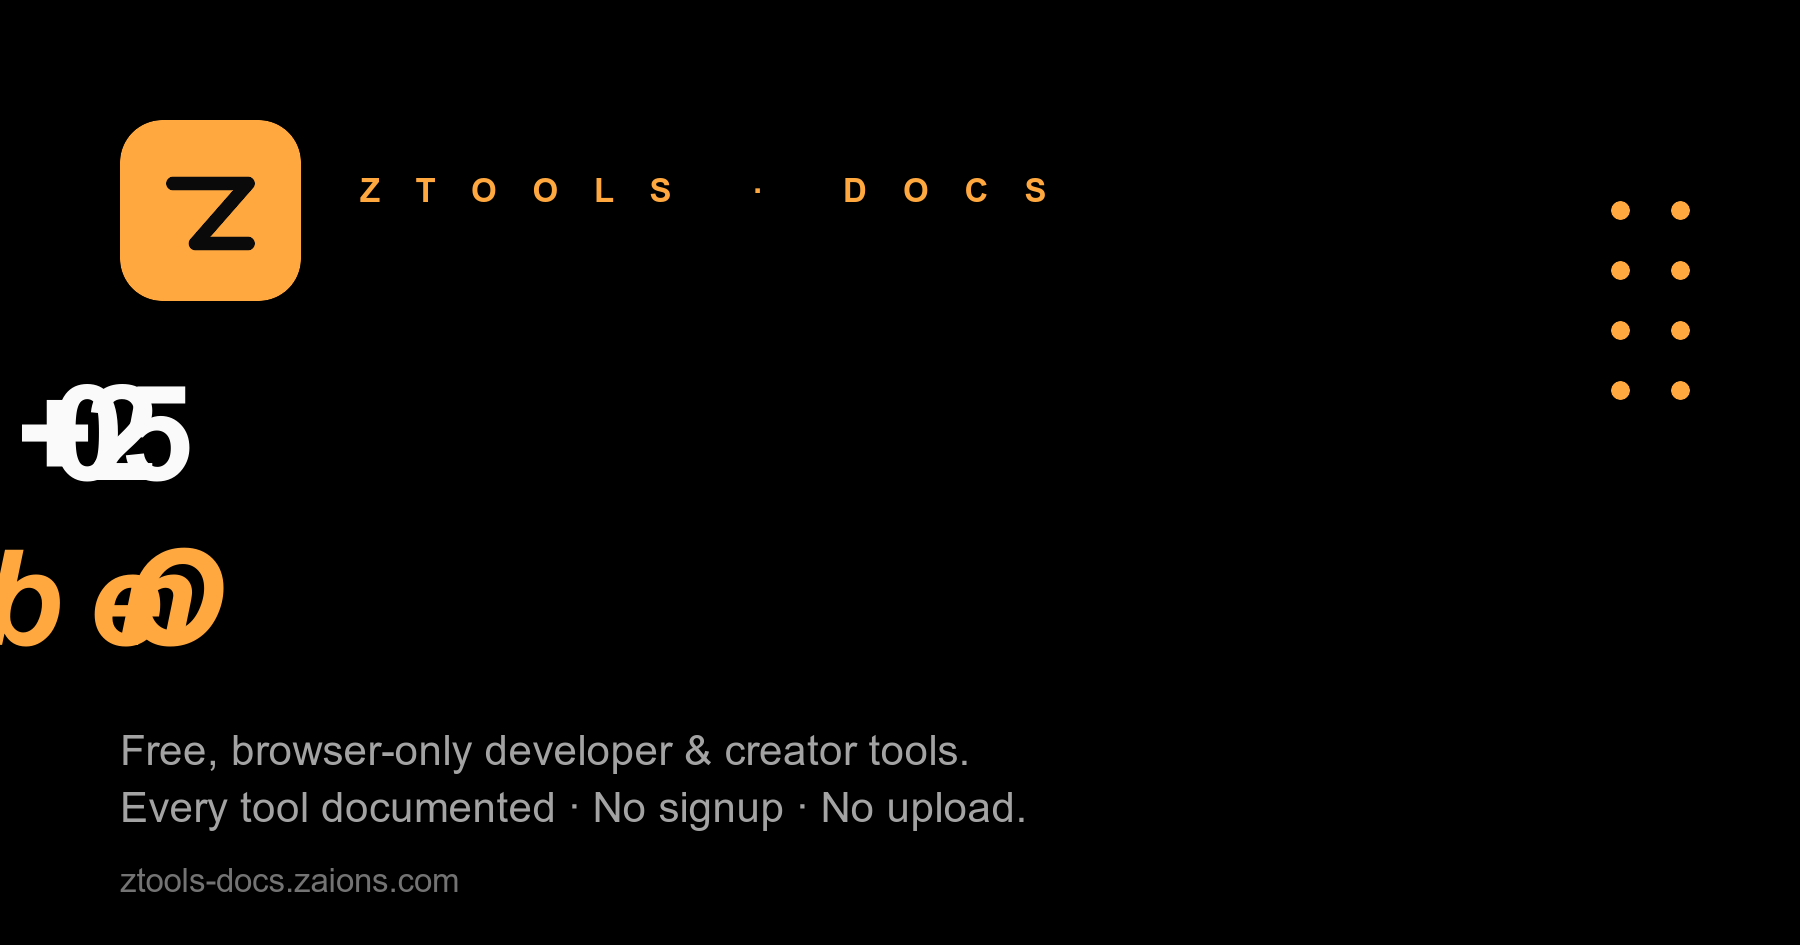
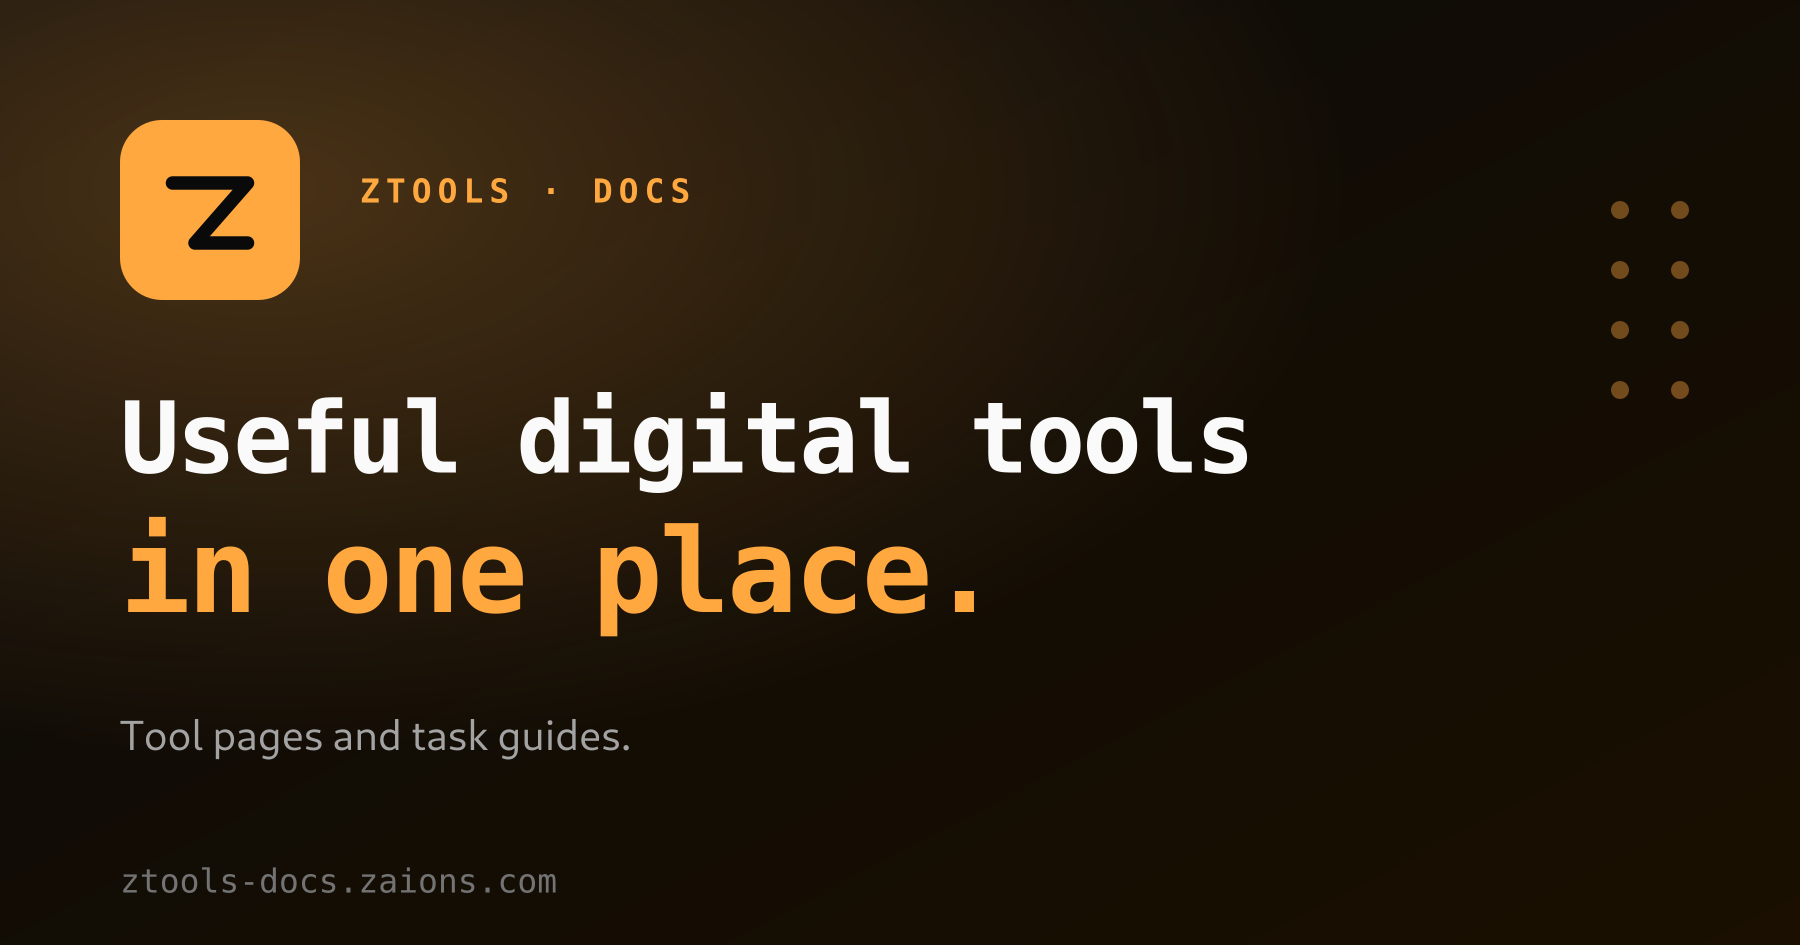
Correct ZTools docs introduction and processing claims

diff --git a/src/pages/index.tsx b/src/pages/index.tsx
@@ -8,30 +8,30 @@ const APP_URL = 'https://ztools.zaions.com';
 const GH_REPO = 'https://github.com/aoneahsan/ztools-docs';
 
 const FEATURED_TOOLS = [
-  {path: 'data/json-formatter', name: 'JSON Formatter', tag: 'Most-used'},
-  {path: 'generator/password-generator', name: 'Password Generator', tag: 'Crypto-RNG'},
-  {path: 'encoding/qr-generator', name: 'QR Generator', tag: 'Browser-only'},
-  {path: 'image/image-compressor', name: 'Image Compressor', tag: 'Lossless'},
-  {path: 'utility/regex-tester', name: 'Regex Tester', tag: 'Live preview'},
-  {path: 'pdf/merge-pdf', name: 'PDF Merger', tag: 'No upload'},
+  {path: 'data/json-formatter', name: 'JSON Formatter', tag: 'Format JSON'},
+  {path: 'generator/password-generator', name: 'Password Generator', tag: 'Generate passwords'},
+  {path: 'encoding/qr-generator', name: 'QR Generator', tag: 'Make QR codes'},
+  {path: 'image/image-compressor', name: 'Image Compressor', tag: 'Compress images'},
+  {path: 'utility/regex-tester', name: 'Regex Tester', tag: 'Test patterns'},
+  {path: 'pdf/merge-pdf', name: 'PDF Merger', tag: 'Merge PDFs'},
 ];
 
 const PILLARS = [
   {
-    label: '580+ tools',
-    text: 'Every developer & creator utility, from JSON formatter to QR generator to PDF merger.',
+    label: 'Tools in one place',
+    text: 'Find a JSON formatter, QR generator, PDF tool, and more without visiting a different site for each job.',
   },
   {
-    label: 'Browser-only',
-    text: 'Tools run on your device. Files never upload. Zero analytics on your inputs.',
+    label: 'Clear processing boundaries',
+    text: 'Many tools work in your browser. AI and some other features send input to a server or provider.',
   },
   {
     label: 'Open documentation',
-    text: 'Every tool documented with use cases, examples, and FAQs. Source on GitHub.',
+    text: 'Read use cases, examples, and FAQs for the tools in this catalog. The docs source is on GitHub.',
   },
   {
-    label: 'No friction',
-    text: 'The free tools need no signup and no email gate. Open the URL, paste, ship.',
+    label: 'A place to start',
+    text: 'Many tools are ready without sign-in. Growth Suite needs an account and has plan limits.',
   },
 ];
 
@@ -46,25 +46,23 @@ export default function Home(): React.ReactElement {
         {/* HERO */}
         <section className={styles.hero}>
           <div className={styles.heroInner}>
-            <p className={styles.eyebrow}>ZTools docs · v0.1</p>
+            <p className={styles.eyebrow}>ZTools docs</p>
             <h1 className={styles.title}>
-              580+ tools.<br />
-              <span className={styles.titleAccent}>One browser tab.</span>
+              Useful tools.<br />
+              <span className={styles.titleAccent}>One place.</span>
             </h1>
             <p className={styles.subtitle}>
-              ZTools is a free, browser-only collection of developer & creator
-              tools. This site documents every one of them — use cases,
-              examples, FAQs, and the honest framing the marketing pages skip.
+              ZTools brings everyday digital tools together, from JSON formatting to QR codes and PDF work. Many run in your browser; AI and some other tools use a server or provider. Find use cases, examples, and FAQs to help you choose your next tool.
             </p>
             <div className={styles.actions}>
-              <Link to="/docs/intro" className={styles.btnPrimary}>
+              <Link to="/docs/tools" className={styles.btnPrimary}>
+                Browse tools
+              </Link>
+              <Link to="/docs/intro" className={styles.btnGhost}>
                 Get started
               </Link>
-              <Link to="/docs/tools" className={styles.btnGhost}>
-                Browse all tools →
-              </Link>
               <a href={APP_URL} className={styles.btnGhost} target="_blank" rel="noopener">
-                Open the app ↗
+                Open ZTools
               </a>
             </div>
           </div>
@@ -90,11 +88,9 @@ export default function Home(): React.ReactElement {
         {/* FEATURED TOOLS */}
         <section className={styles.featured}>
           <header className={styles.sectionHeader}>
-            <p className={styles.sectionEyebrow}>Featured</p>
-            <h2 className={styles.sectionTitle}>Start with the most-used tools</h2>
+            <h2 className={styles.sectionTitle}>Start with a tool</h2>
             <p className={styles.sectionLead}>
-              Each links to its full documentation page. Click any to read the
-              use cases, examples, and FAQs.
+              Choose a tool to read its use cases, examples, and FAQs.
             </p>
           </header>
           <div className={styles.toolGrid}>
@@ -115,33 +111,21 @@ export default function Home(): React.ReactElement {
         {/* PHILOSOPHY */}
         <section className={styles.philosophy}>
           <div>
-            <p className={styles.sectionEyebrow}>Philosophy</p>
+            <p className={styles.sectionEyebrow}>How ZTools works</p>
             <h2 className={styles.sectionTitle}>
-              Free as in <em>actually</em> free
+              The tool for the next job is nearby
             </h2>
           </div>
           <div className={styles.philosophyText}>
             <p>
-              Most "free online tools" charge in attention, data, or both. They
-              upload your files to inspect them, run analytics on your inputs,
-              gate features behind email signup, and bury the actual product
-              under three layers of ads.
+              Small digital jobs can send you through several sites. ZTools keeps the tools together. Find a JSON formatter, make a QR code, or move on to the next task in one catalog.
             </p>
             <p>
-              ZTools is the opposite: <strong>browser-only processing</strong>,
-              no signup gate, no analytics on your tool inputs (only on
-              navigation, opt-out documented). The full documentation site
-              you're reading is open-source on{' '}
-              <a href={GH_REPO} target="_blank" rel="noopener">
-                GitHub
-              </a>{' '}
-              — fork it, audit it, fix typos.
+              Processing depends on the tool. Many work in your browser; AI and some other features may send the input you provide to ZTools or another provider. Some tools also need an account or connection.
             </p>
             <p>
-              When a tool has limits — JPG can't store transparency, GIF
-              transparency is 1-bit, regex performance degrades on certain
-              patterns — the docs say so. Honest framing earns more trust than
-              marketing copy.
+              Each listed tool has use cases, examples, and FAQs. The docs source is on{' '}
+              <a href={GH_REPO} target="_blank" rel="noopener">GitHub</a>, where you can review the pages and suggest a correction.
             </p>
           </div>
         </section>
@@ -151,10 +135,11 @@ export default function Home(): React.ReactElement {
           <p className={styles.sectionEyebrow}>Built by</p>
           <h2 className={styles.authorName}>Ahsan Mahmood</h2>
           <p className={styles.authorBio}>
-            Solo developer behind ZTools and several other side projects. Based
-            in Pakistan; ships code every day. Reach me at{' '}
+            Ahsan Mahmood built ZTools. He's a developer based in Pakistan. For questions, email{' '}
             <a href="mailto:aoneahsan@gmail.com">aoneahsan@gmail.com</a>{' '}
-            or{' '}
+            or use the contact links below.
+          </p>
+          <p className={styles.authorBio}>
             <a href="https://wa.me/923046619706" target="_blank" rel="noopener">WhatsApp +92 304 6619706</a>.
           </p>
           <p className={styles.authorBio}>

diff --git a/docusaurus.config.ts b/docusaurus.config.ts
@@ -33,7 +33,7 @@ const clarityScript = (id: string) => `
 
 const config: Config = {
   title: 'ZTools Documentation',
-  tagline: '580+ free developer & creator tools — every page documented.',
+  tagline: 'Useful digital tools in one place, with tool pages and task guides.',
   favicon: 'img/favicon.ico',
 
   url: SITE_URL,
@@ -52,7 +52,6 @@ const config: Config = {
   },
 
   headTags: [
-    {tagName: 'link', attributes: {rel: 'canonical', href: SITE_URL}},
     {tagName: 'meta', attributes: {name: 'author', content: 'Ahsan Mahmood'}},
 
     // ----- Favicons + iOS / Android home-screen icons ---------------------
@@ -82,14 +81,14 @@ const config: Config = {
     {tagName: 'meta', attributes: {property: 'og:image:type', content: 'image/png'}},
     {tagName: 'meta', attributes: {property: 'og:image:width', content: '1800'}},
     {tagName: 'meta', attributes: {property: 'og:image:height', content: '945'}},
-    {tagName: 'meta', attributes: {property: 'og:image:alt', content: 'ZTools — 580+ free developer & creator tools, every one documented'}},
+    {tagName: 'meta', attributes: {property: 'og:image:alt', content: 'ZTools Docs: useful digital tools in one place.'}},
 
     // ----- Twitter / X card ----------------------------------------------
     {tagName: 'meta', attributes: {name: 'twitter:card', content: 'summary_large_image'}},
     {tagName: 'meta', attributes: {name: 'twitter:site', content: '@aoneahsan'}},
     {tagName: 'meta', attributes: {name: 'twitter:creator', content: '@aoneahsan'}},
     {tagName: 'meta', attributes: {name: 'twitter:image', content: `${SITE_URL}/img/social-card.png`}},
-    {tagName: 'meta', attributes: {name: 'twitter:image:alt', content: 'ZTools — 580+ free developer & creator tools, every one documented'}},
+    {tagName: 'meta', attributes: {name: 'twitter:image:alt', content: 'ZTools Docs: useful digital tools in one place.'}},
 
     // Clarity — emitted only when CLARITY_PROJECT_ID env var is set
     ...(CLARITY_PROJECT_ID
@@ -203,13 +202,13 @@ const config: Config = {
     announcementBar: {
       id: 'launch-2026-05',
       content:
-        '🎉 ZTools docs — 580+ tools, each with its own documentation page. <a href="/docs/intro">Get started →</a>',
+        'Find the tool for your next task. <a href="/docs/tools">Browse tools →</a>',
       backgroundColor: '#ffa840',
       textColor: '#0a0a0a',
       isCloseable: true,
     },
     metadata: [
-      {name: 'keywords', content: 'developer tools, online tools, free tools, browser tools, ztools, json formatter, password generator, qr generator, image compressor, regex tester, base64, color picker'},
+      {name: 'keywords', content: 'ZTools, online tools, browser tools, developer tools, creator tools, JSON formatter, password generator, QR code generator, image compressor'},
       {name: 'twitter:card', content: 'summary_large_image'},
     ],
     colorMode: {defaultMode: 'dark', respectPrefersColorScheme: true},
@@ -270,7 +269,7 @@ const config: Config = {
           ],
         },
       ],
-      copyright: `© ${new Date().getFullYear()} ZTools by Ahsan Mahmood / Zaions. Browser-only. Privacy-first.`,
+      copyright: `© ${new Date().getFullYear()} ZTools by Ahsan Mahmood.`,
     },
     prism: {
       theme: prismThemes.oneLight,

diff --git a/src/components/ToolCTA/index.tsx b/src/components/ToolCTA/index.tsx
@@ -11,9 +11,9 @@ interface ToolCTAProps {
 }
 
 const LEAD: Record<ToolKind, string> = {
-  browser: 'in your browser. No signup, no upload.',
-  paid: 'in the ZTools Growth Suite. Sign-in required.',
-  server: 'on ZTools. Server processing needs a Google sign-in.',
+  browser: 'in ZTools.',
+  paid: 'in Growth Suite. Sign-in required.',
+  server: 'in ZTools. This tool may process input on a server.',
 };
 
 export default function ToolCTA({href, toolName, kind = 'browser'}: ToolCTAProps): React.ReactElement {
@@ -22,7 +22,7 @@ export default function ToolCTA({href, toolName, kind = 'browser'}: ToolCTAProps
       <div className={styles.body}>
         <p className={styles.kicker}>Try it now</p>
         <p className={styles.lead}>
-          Run <strong>{toolName}</strong> {LEAD[kind]}
+          Open <strong>{toolName}</strong> {LEAD[kind]}
         </p>
       </div>
       <a className={styles.button} href={href} target="_blank" rel="noopener">

diff --git a/docs/intro.md b/docs/intro.md
@@ -1,7 +1,7 @@
 ---
 id: intro
 title: Welcome to ZTools Documentation
-description: ZTools is a free collection of 580+ developer & creator tools. Every tool documented with use cases, examples, and FAQs.
+description: Find a ZTools tool, learn how it works, and check whether the task uses your browser, a server, an account, or a plan.
 sidebar_label: Introduction
 sidebar_position: 1
 slug: /intro
@@ -9,38 +9,30 @@ slug: /intro
 
 # Welcome to ZTools Documentation
 
-**ZTools** is a free collection of **580+ developer & creator tools** — JSON formatters, password generators, image compressors, regex testers, QR generators, PDF tools, and more. The vast majority run entirely in your browser: no signup, no upload, no data leaves your device. A few heavy tools (background removal, OCR, some audio, video and document conversions) can process a file on the ZTools server, where it is uploaded temporarily and deleted right after processing. A paid Growth Suite adds AI-assisted SEO tools that need a sign-in.
+A different site for every small job makes the next step hard to find. ZTools brings useful digital tools into one place: JSON formatters, password generators, QR code generators, image compressors, and more. One task. Then another.
 
-This site documents how each tool works — with real use cases, worked examples, FAQs, and tips you won't find on the app pages alone.
+<a id="where-can-i-find-a-tool-or-guide"></a>
+## 🧰 Where can I find a tool or guide?&nbsp;[#](#where-can-i-find-a-tool-or-guide)
 
-## What you can do here
+Start with the catalog or follow a guide for a longer task. Tool pages include examples and usage notes.
 
-- **Browse all tools** — see the [full catalog](/docs/tools) organized by category.
-- **Read in-depth guides** — task-oriented [how-to guides](/docs/guides) covering common workflows.
-- **Reference release notes** — the [blog](/blog) tracks new tools, improvements, and the dev journal.
-- **Open the app** — every documented tool links directly to its page on [ztools.zaions.com](https://ztools.zaions.com).
-
-## Why ZTools exists
-
-Most "free online tools" upload your data to a server, run paid analytics on you, or hide the actual product behind ads. ZTools is the opposite: open-source documentation, browser-first processing, and no email gate. Each page says plainly when a tool needs a sign-in, a paid plan or the server.
-
-The full source code for the documentation site you're reading is on [GitHub](https://github.com/aoneahsan/ztools-docs) — fork it, audit it, contribute fixes.
-
-## How content is organized
-
-| Section | What's there |
+| Section | What you'll find |
 |---|---|
-| [All tools](/docs/tools) | Every documented tool, grouped by category |
-| [Guides](/docs/guides) | Long-form how-to guides spanning multiple tools |
-| [Blog](/blog) | Release notes, deep-dives, and the dev journal |
+| [All tools](/docs/tools) | Tool pages grouped by category |
+| [Guides](/docs/guides) | Instructions for common tasks |
+| [Blog](/blog) | Release notes and tool updates |
 | [Changelog](/docs/changelog) | Version history |
 
-## Privacy & honesty
+<a id="how-does-a-tool-process-my-work"></a>
+## 🔒 How does a tool process my work?&nbsp;[#](#how-does-a-tool-process-my-work)
 
-ZTools tools are browser-first by design. The [privacy policy](https://ztools.zaions.com/privacy-policy) details exactly what happens with your input data (almost always: nothing — it stays on your device).
+Many tasks run in your browser. AI and some file tasks send input to a server or provider. Some actions require an account or have plan limits. Read the [ZTools privacy policy](https://ztools.zaions.com/privacy-policy) for data handling details before submitting sensitive input.
 
-When a tool has limits, this documentation says so explicitly. We don't claim "all-in-one solution" when a tool only handles 80% of cases. Honest framing earns more trust than marketing copy.
+<a id="how-do-i-start-a-task"></a>
+## ▶ How do I start a task?&nbsp;[#](#how-do-i-start-a-task)
+
+Choose a tool in the [catalog](/docs/tools), then [open ZTools](https://ztools.zaions.com) to use it.
 
 ---
 
-*Author: Ahsan Mahmood · Last updated: 2026-05-06 · [Open ZTools ↗](https://ztools.zaions.com)*
+*Author: Ahsan Mahmood · Last updated: 2026-10-14 · [Open ZTools ↗](https://ztools.zaions.com)*

diff --git a/AGENTS.md b/AGENTS.md
@@ -27,7 +27,7 @@ Fleet rules load from `~/.claude/rules/` and are not repeated here.
   no built page in `../ztools/dist`. Do not weaken it. Registry tools without content are listed as a warning.
 - Paid (Growth Suite) and server-backed tools get their own wording through `ToolCTA`'s `kind` prop — they
   never carry the "no signup, no upload" line.
-- Counts on the hub pages are computed by the generator. Hand-written pages say "580+".
+- Counts on the hub pages are computed by the generator. Hand-written pages use evergreen wording; the current app registry has 579 tool IDs, but its count can change.
 
 ## Commands
 

diff --git a/CLAUDE.md b/CLAUDE.md
@@ -27,7 +27,7 @@ Fleet rules load from `~/.claude/rules/` and are not repeated here.
   no built page in `../ztools/dist`. Do not weaken it. Registry tools without content are listed as a warning.
 - Paid (Growth Suite) and server-backed tools get their own wording through `ToolCTA`'s `kind` prop — they
   never carry the "no signup, no upload" line.
-- Counts on the hub pages are computed by the generator. Hand-written pages say "580+".
+- Counts on the hub pages are computed by the generator. Hand-written pages use evergreen wording; the current app registry has 579 tool IDs, but its count can change.
 
 ## Commands
 
